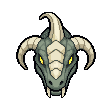
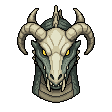
Art loop pass 9: the Haar Wyrm steam base, far horn curls forward
Answers Sean's note e20c6ea1 (the three-quarter far horn curled backward
instead of toward the muzzle) and the steam-and-bone recast from pass 499.

- Redrawn Haar Wyrm head base (create_character pro, 112px, 15 generations):
  a single bleached steam-and-bone head, both horns rising from the crown and
  curving forward over the brow toward the muzzle — a matched pair in the east
  profile and the south-east three-quarter, so the two views agree and the far
  horn no longer curls the wrong way. east is a clean right profile (guard.png).
  Supersedes the fog base bdc95683; char 23a1a8fb, group cf6b825e.
- First retake came out multi-headed ("three-headed serpent" read literally)
  and was discarded. New style-guide rule (step 1c): name only the part the
  sprite is, not the whole multi-part creature.
- New tool tools/art/base_review.py builds the base-for-approval review picture.
- docs/loop/art-pass-09.md; ledger updated; budget 106.0 -> 76.0 generations
  + 50 USD (credits untouched).

Base gates on Sean's approval: no animation and no haar_wyrm.gd change yet.
Review deployed to the hosted Shots tab.

diff --git a/tools/art/base_review.py b/tools/art/base_review.py
@@ -1,0 +1,133 @@
+#!/usr/bin/env python3
+"""Builds a base-for-approval review picture for a redesigned character (style guide, step 1d).
+
+Lays the east profile and the south-east three-quarter at 1x and 4x, with the hero at rough
+scale, so Sean can approve the base before any animation is made from it.
+
+  python3 tools/art/base_review.py <base_dir> <out.png> "<title>" "<zone colours>"
+
+<base_dir> holds the PixelLab rotations (east.png, south-east.png ...). Nearest-neighbour
+scaling throughout, so the pixels stay crisp.
+"""
+import sys
+from pathlib import Path
+
+from PIL import Image, ImageDraw, ImageFont
+
+ROOT = Path(__file__).resolve().parents[2]
+HERO_SHEET = ROOT / "assets" / "sprites" / "hero_base.png"
+HERO_CELL = (64, 84)
+
+BG = (26, 28, 32, 255)
+PANEL = (34, 37, 42, 255)
+INK = (214, 219, 224, 255)
+DIM = (150, 156, 163, 255)
+
+
+def font(size):
+    try:
+        return ImageFont.load_default(size=size)
+    except TypeError:
+        return ImageFont.load_default()
+
+
+def trim(im):
+    bbox = im.getbbox()
+    return im.crop(bbox) if bbox else im
+
+
+def scaled(im, factor):
+    return im.resize((im.width * factor, im.height * factor), Image.NEAREST)
+
+
+def fit_height(im, h):
+    if im.height == 0:
+        return im
+    factor = max(1, round(h / im.height))
+    return scaled(im, factor)
+
+
+def hero_frame():
+    sheet = Image.open(HERO_SHEET).convert("RGBA")
+    cw, ch = HERO_CELL
+    cols = sheet.width // cw
+    rows = sheet.height // ch
+    for r in range(rows):
+        for c in range(cols):
+            cell = sheet.crop((c * cw, r * ch, c * cw + cw, r * ch + ch))
+            t = trim(cell)
+            if t.width > 6 and t.height > 20:
+                return t
+    return trim(sheet)
+
+
+def main():
+    base_dir = Path(sys.argv[1])
+    out = Path(sys.argv[2])
+    title = sys.argv[3]
+    zone = sys.argv[4] if len(sys.argv) > 4 else ""
+
+    east = trim(Image.open(base_dir / "east.png").convert("RGBA"))
+    se = trim(Image.open(base_dir / "south-east.png").convert("RGBA"))
+    hero = hero_frame()
+
+    W, H = 1020, 780
+    img = Image.new("RGBA", (W, H), BG)
+    d = ImageDraw.Draw(img)
+    f_title = font(15)
+    f_h = font(13)
+    f_s = font(12)
+    f_tiny = font(11)
+
+    d.text((14, 10), title, font=f_title, fill=INK)
+    d.text((14, 32), "For approval. Base only; no animation until you OK it. "
+                     "Would replace the drawn head in haar_wyrm.gd (_draw_head).",
+            font=f_s, fill=DIM)
+
+    # --- East profile panel ---
+    d.rectangle((14, 62, W - 14, 408), fill=PANEL)
+    d.text((28, 72), "EAST PROFILE  ( -> base/guard.png; every moving clip starts here )",
+           font=f_h, fill=INK)
+    e1 = fit_height(east, 72)
+    img.alpha_composite(e1, (36, 110))
+    d.text((40, 188), "1x", font=f_tiny, fill=DIM)
+    e4 = scaled(east, 4)
+    # keep inside the panel
+    if e4.height > 290:
+        e4 = fit_height(east, 290)
+    img.alpha_composite(e4, (214, 118))
+    d.text((214, 386), "4x", font=f_tiny, fill=DIM)
+
+    d.text((760, 72), "ROUGH SCALE", font=f_h, fill=INK)
+    d.text((760, 90), "(2x-density sheet px)", font=f_s, fill=DIM)
+    h2 = scaled(hero, 2)
+    if h2.height > 150:
+        h2 = fit_height(hero, 150)
+    img.alpha_composite(h2, (766, 118))
+    d.text((766, 250), f"hero ~{h2.height}", font=f_tiny, fill=DIM)
+    headswatch = fit_height(east, 112)
+    img.alpha_composite(headswatch, (864, 150))
+    d.text((864, 250), f"head ~{headswatch.height}", font=f_tiny, fill=DIM)
+    d.text((760, 290), "A guardian head sits a\nlittle taller than the hero.", font=f_s, fill=DIM)
+
+    # --- South-east three-quarter panel ---
+    d.rectangle((14, 420, W - 14, H - 12), fill=PANEL)
+    d.text((28, 428), "SOUTH-EAST THREE-QUARTER  ( still poses only: idle, rest, intro/taunt )",
+           font=f_h, fill=INK)
+    s1 = fit_height(se, 72)
+    img.alpha_composite(s1, (36, 468))
+    d.text((40, 548), "1x", font=f_tiny, fill=DIM)
+    s4 = scaled(se, 4)
+    if s4.height > 290:
+        s4 = fit_height(se, 290)
+    img.alpha_composite(s4, (214, 456))
+    d.text((214, 744), "4x", font=f_tiny, fill=DIM)
+    if zone:
+        d.text((760, 470), zone, font=f_s, fill=DIM)
+
+    img.convert("RGB").save(out)
+    print(f"wrote {out} ({img.width}x{img.height})")
+
+
+if __name__ == "__main__":
+    main()

diff --git a/docs/loop/art-pass-09.md b/docs/loop/art-pass-09.md
@@ -1,0 +1,67 @@
+# Art loop pass 9: the Haar Wyrm steam base — the far horn curls forward now
+
+Game version: v1.1.0 (Mono). Last updated: 2026-11-06.
+Covers: the Haar Wyrm head base redrawn as a steam-and-bone wyrm with the three-quarter far horn
+fixed (Sean's note e20c6ea1), and a new prompt-craft rule for multi-part creatures.
+
+## Sean's note
+
+On the pass-8 review picture (`shots/haar-wyrm-base-for-approval.png`) Sean left a **Fix this** on
+the south-east three-quarter: *"The 3/4 view is off. The far horn is curled backward instead of
+toward the muzzle."* In the old base the near horn hooked forward over the brow while the far horn
+curled back the other way, so the pair read wrong. Pass 499 also re-cast the guardian as **steam and
+bone**, not fog, so the base was due a redraw anyway (it was the superseded fog look).
+
+## The redraw
+
+Both go together: a fresh **pro** base (`create_character`, 8 directions, 112 px, side), its prompt
+written so both horns hook forward in every view and the head reads bleached and steam-scoured.
+
+- **A false start, and a new rule.** The first retake (`ce2606ee-…`, 15 generations) asked for "a
+  three-headed bone-and-steam serpent's head" and PixelLab drew the whole beast — two and three heads
+  fused on one neck. Discarded. The lesson is now in the style guide (step 1c): **name only the part
+  the sprite is, not the multi-part creature** — the Haar Wyrm's heads, necks and coil are code, so
+  the sprite is "a single dragon-serpent head, one head only", never "a three-headed serpent".
+- **The kept base** (`23a1a8fb-e2b6-4454-b3b6-6cd706c693e1`, group `cf6b825e-…`, 15 generations;
+  balance 106.0 → 76.0, no credits). One head: a long bone-pale snout and brow, grey-green scaled
+  neck, a fanged jaw, bone spines down the nape, one lantern-yellow eye. **Two thick bony horns rise
+  from the crown and both curve forward over the brow toward the muzzle** — a matched forward-hooking
+  pair in the east profile and the south-east three-quarter alike, so the far-horn complaint is
+  answered and the two views agree. Paler and more bleached than the fog base: steam-and-bone, not
+  grey fog. The `east` rotation is a clean right profile with the face in view, so it is
+  `base/guard.png` (facing check, step 1a, passed first try). Sources overwrite
+  `art/pixellab/bosses/haar_wyrm/base/`; the fog base (`bdc95683-…`) is superseded.
+- **Review picture** rebuilt at `shots/haar-wyrm-base-for-approval.png` (east profile and south-east
+  three-quarter at 1x and 4x, the hero at rough scale) by the new committed tool
+  `tools/art/base_review.py`, and deployed to the hosted Shots tab. **No animation, and no change to
+  `haar_wyrm.gd`, until Sean approves this base.**
+
+The open question from pass 8 still stands for Sean when he reviews: keep the guardian's three heads
+code-drawn (this base becomes a portrait/intro look only), or move the solid head to the sheet while
+the coil and necks stay code? That decision shapes the clips this base feeds.
+
+## Budget
+
+Balance at the top of this pass: **106.04** generations + 50 USD credits. This pass spent **30**
+generations (15 on the discarded multi-head retake, 15 on the kept base), leaving **76.04 + 50 USD**.
+Credits untouched; the next guardian bases (Thane Vorrund, then the Drowned Warden) fit comfortably
+before the 2026-11-28 refill.
+
+## Rubric
+
+No in-game change ships this pass (the base gates on Sean's approval), so the scored categories are
+unchanged from the pass-497 independent grade (5.3/10, recorded in `grades.json`). The art goal
+(bible 12.0) is the live bar; this pass moves the first guardian a step closer and leaves it with
+Sean.
+
+| Category | Note |
+| --- | --- |
+| Art and cohesion | Base only, not yet in-game; held at the pass-497 grade. |
+| Characters and foes | Haar Wyrm base redrawn, far-horn note answered, awaiting approval. |
+
+## Next
+
+Hold for Sean's OK on the Haar Wyrm steam base. While it waits, make the next guardian base in order
+— **Thane Vorrund** — then the Drowned Warden (no more than three waiting at once), and otherwise the
+non-art queue: the VFX-tool trial on one code effect, and the pass-497 grade's defects (the hero
+sprite, flat lighting/AO, depth and tile repetition). A fresh note from Sean outranks all of it.

diff --git a/docs/art/enemy-style-guide.md b/docs/art/enemy-style-guide.md
@@ -159,6 +159,12 @@ What worked for the hero and the Shade Knight, cheapest first:
    - **Check every base and frame for stray or moved props** before anything goes to Sean. If a
      prop still wanders after one retake, generate the figure **without** it and add it with
      PixelLab's inpaint or the free `pixelart_workbench` — do not keep rerolling.
+   - **Name only the part the sprite is, not the whole multi-part creature (2026-11-06).** The Haar
+     Wyrm is a three-headed serpent whose heads, necks and coil are drawn in code; a base prompt for
+     "a three-headed serpent's head" drew two and three heads fused together (art pass 9). Describe
+     the single part the sprite stands in for — "a single dragon-serpent head", "one head only, no
+     second head anywhere" — and state the count as one, or the model draws the whole beast. The same
+     holds for any limb or part a rig supplies: ask for the one piece, not the animal it belongs to.
 1d. **Sean approves each base before animation (2026-11-06).** For a new or redesigned character,
    make **only the base first** — the east profile and the south-east three-quarter stance, a few
    generations — and generate no animations (turns included) until a workbench note from Sean
